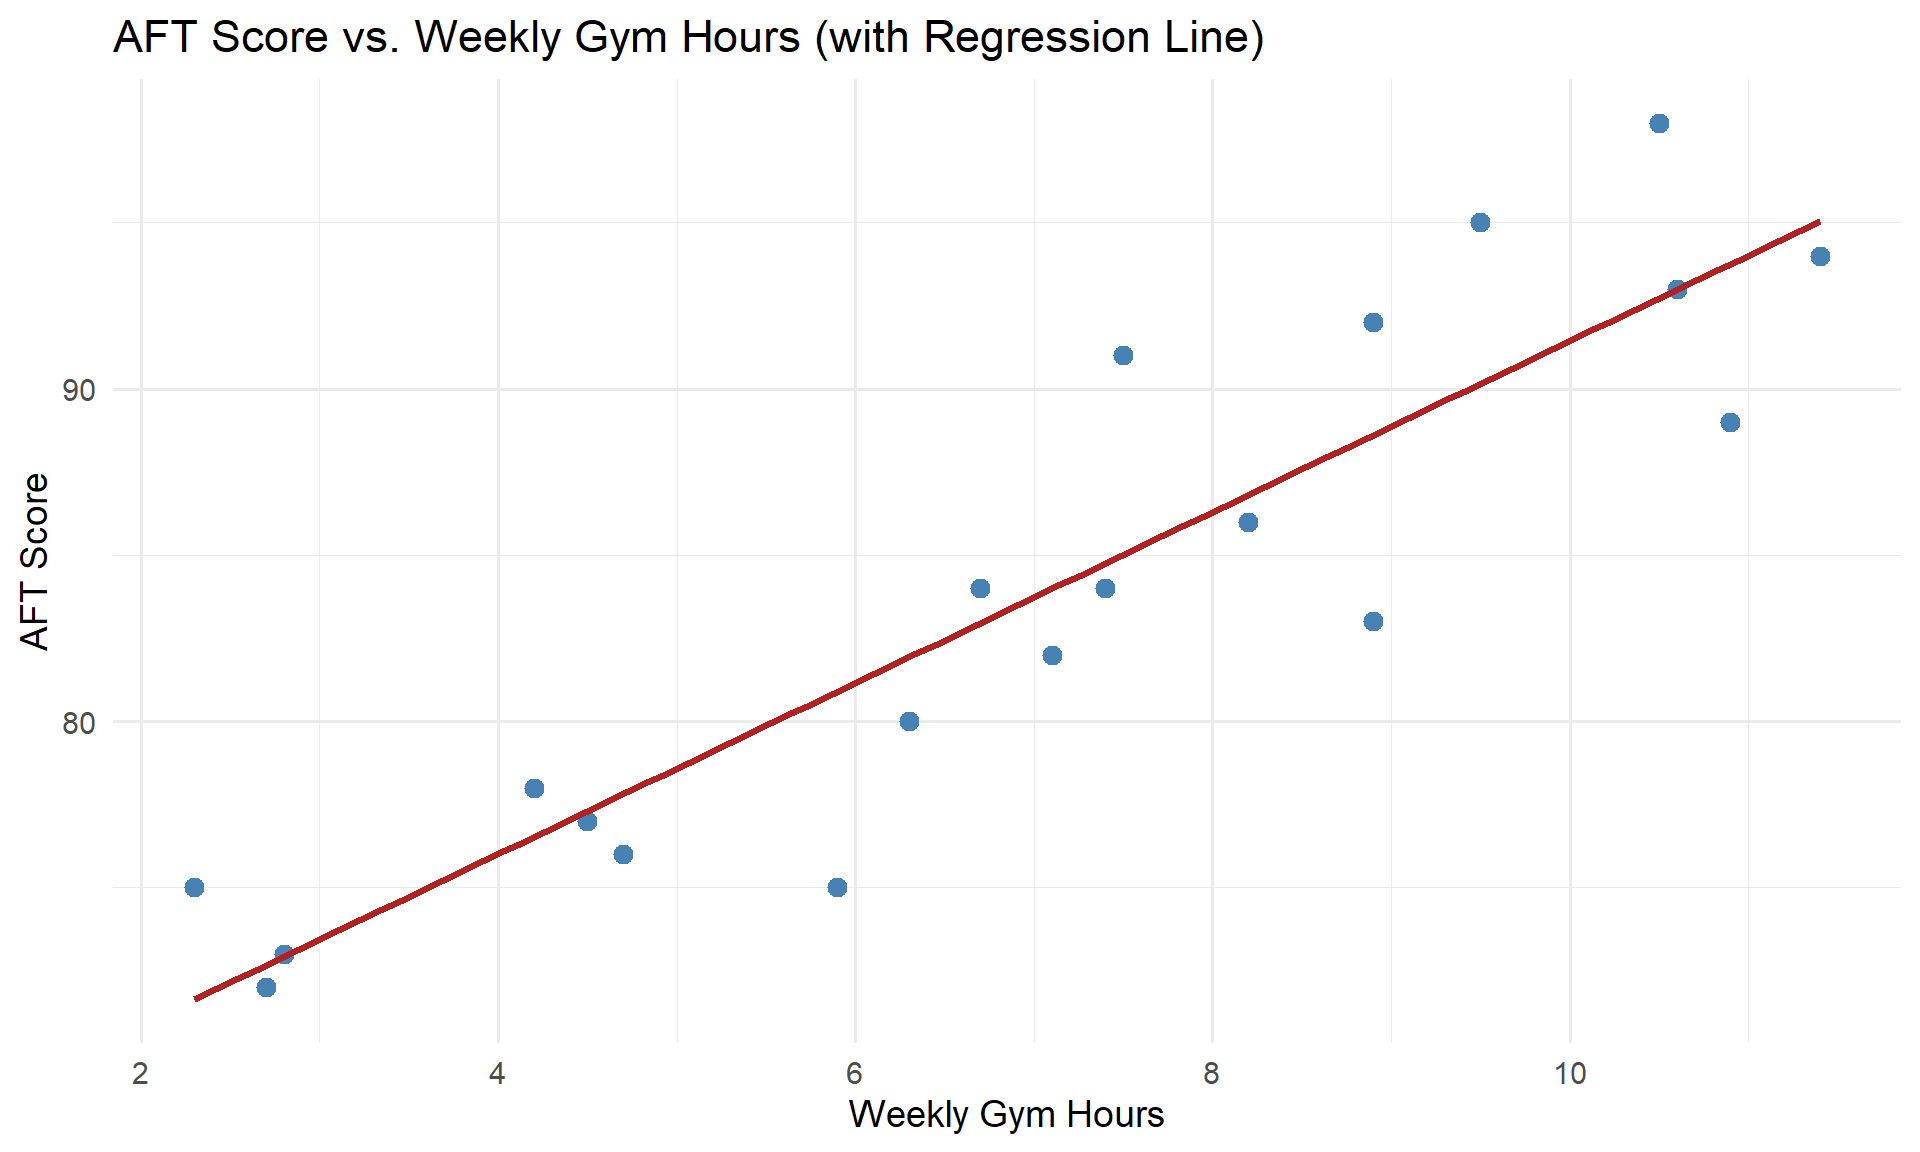
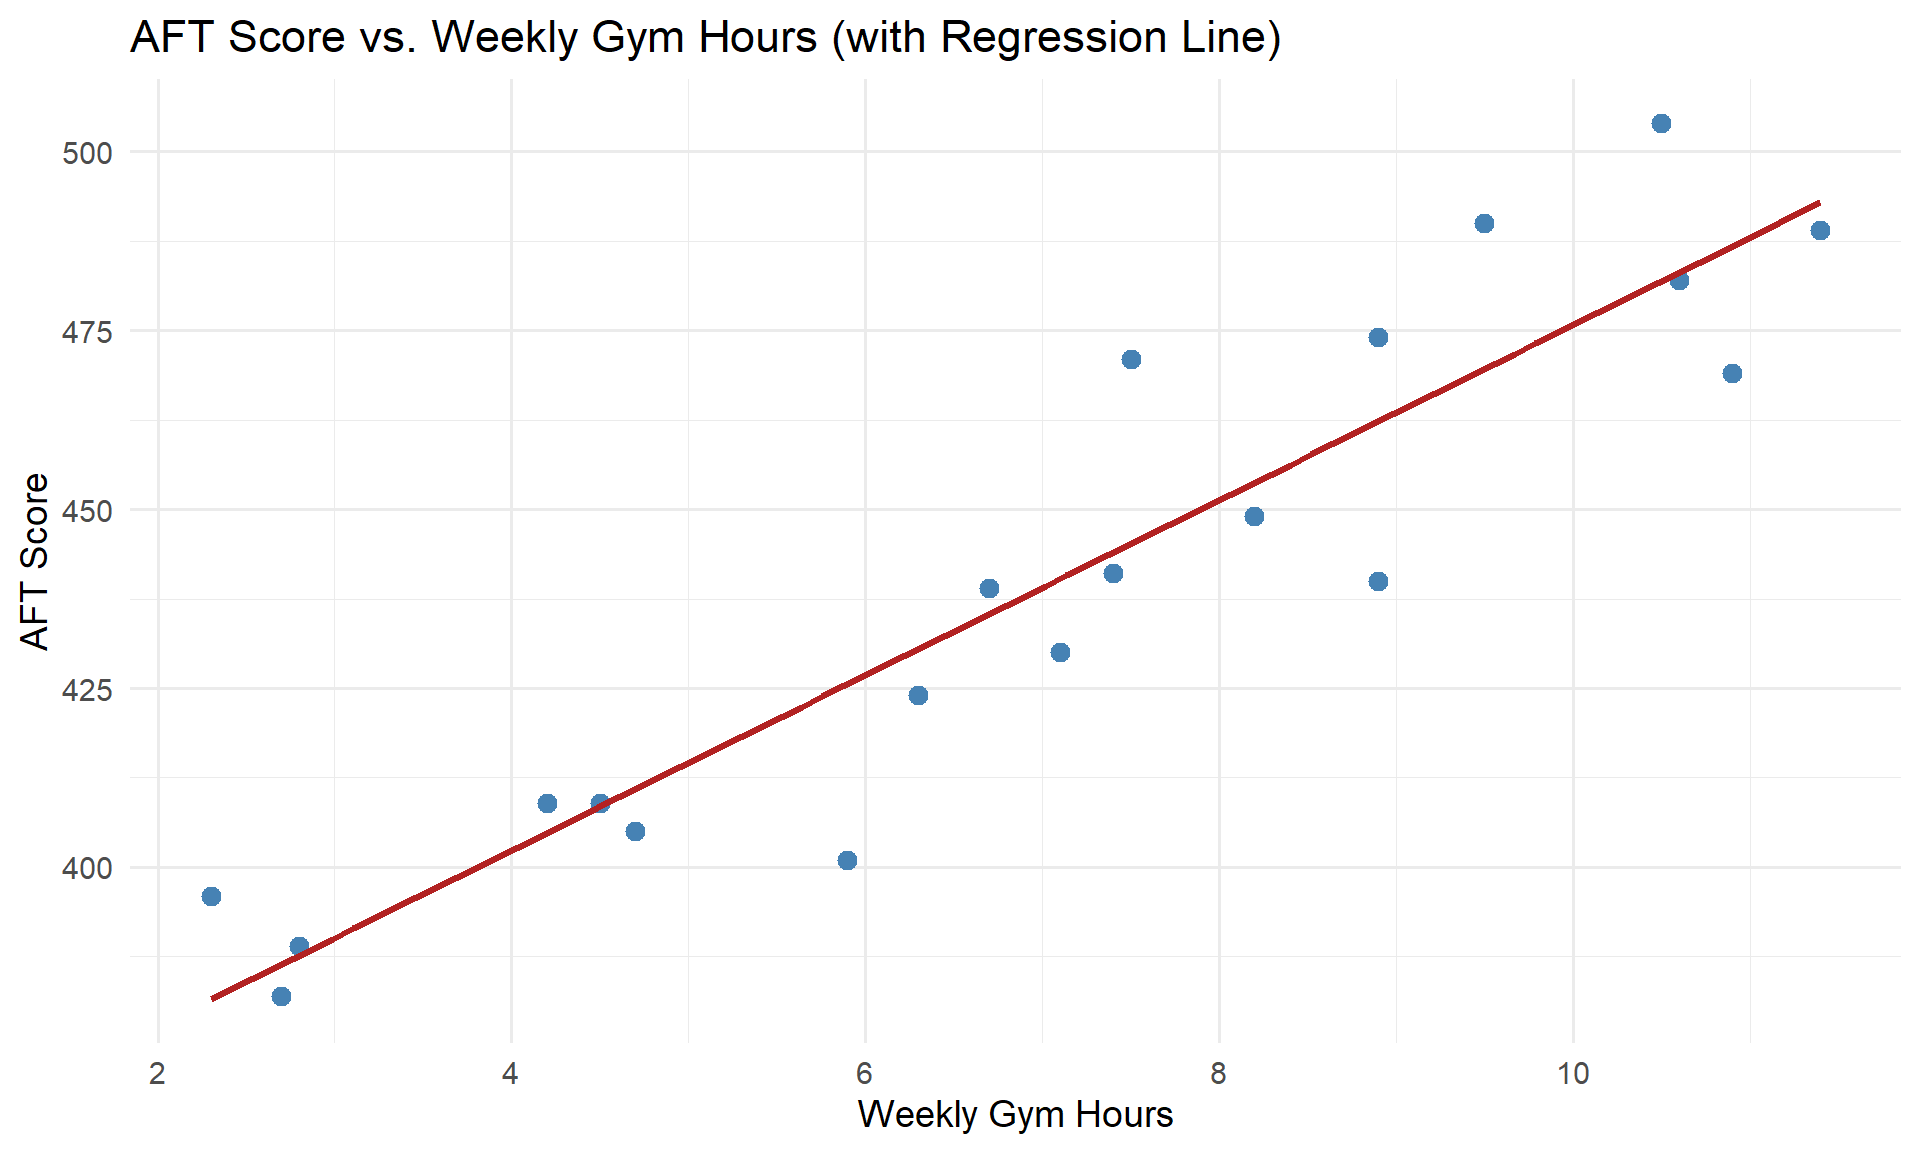
Sync westpoint folder from courses repo

diff --git a/public/westpoint/MA206x-AY26-2/lesson-28.html b/public/westpoint/MA206x-AY26-2/lesson-28.html
@@ -723,19 +723,19 @@ Call:
 lm(formula = aft_score ~ gym_hours, data = soldiers)
 
 Residuals:
-   Min     1Q Median     3Q    Max 
--5.894 -1.837 -0.481  1.948  5.993 
+    Min      1Q  Median      3Q     Max 
+-24.584  -6.049  -2.001   6.088  25.846 
 
 Coefficients:
             Estimate Std. Error t value Pr(&gt;|t|)    
-(Intercept)  65.7263     2.1115  31.128  &lt; 2e-16 ***
-gym_hours     2.5707     0.2786   9.226 3.04e-08 ***
+(Intercept)  353.418      8.644   40.88  &lt; 2e-16 ***
+gym_hours     12.231      1.141   10.72 3.02e-09 ***
 ---
 Signif. codes:  0 '***' 0.001 '**' 0.01 '*' 0.05 '.' 0.1 ' ' 1
 
-Residual standard error: 3.463 on 18 degrees of freedom
-Multiple R-squared:  0.8255,    Adjusted R-squared:  0.8158 
-F-statistic: 85.12 on 1 and 18 DF,  p-value: 3.039e-08</code></pre>
+Residual standard error: 14.18 on 18 degrees of freedom
+Multiple R-squared:  0.8646,    Adjusted R-squared:  0.8571 
+F-statistic:   115 on 1 and 18 DF,  p-value: 3.02e-09</code></pre>
 </div>
 </div>
 <hr>
@@ -743,7 +743,7 @@ F-statistic: 85.12 on 1 and 18 DF,  p-value: 3.039e-08</code></pre>
 <section id="interpreting-the-output" class="level2">
 <h2 class="anchored" data-anchor-id="interpreting-the-output">Interpreting the Output</h2>
 <p>The fitted equation is:</p>
-<p><span class="math display">\[\widehat{\text{AFT Score}} = 65.73 + 2.57 \cdot \text{Gym Hours}\]</span></p>
+<p><span class="math display">\[\widehat{\text{AFT Score}} = 353.42 + 12.23 \cdot \text{Gym Hours}\]</span></p>
 <div class="callout callout-style-default callout-important callout-titled" title="Interpreting Slope and Intercept">
 <div class="callout-header d-flex align-content-center">
 <div class="callout-icon-container">
@@ -754,8 +754,8 @@ F-statistic: 85.12 on 1 and 18 DF,  p-value: 3.039e-08</code></pre>
 </div>
 </div>
 <div class="callout-body-container callout-body">
-<p><strong>Slope</strong> (<span class="math inline">\(b_1 = 2.57\)</span>): For each additional hour per week spent in the gym, a Soldier’s predicted AFT score increases by 2.57 points, on average.</p>
-<p><strong>Intercept</strong> (<span class="math inline">\(b_0 = 65.73\)</span>): A Soldier who spends zero hours per week in the gym has a predicted AFT score of 65.73 points.</p>
+<p><strong>Slope</strong> (<span class="math inline">\(b_1 = 12.23\)</span>): For each additional hour per week spent in the gym, a Soldier’s predicted AFT score increases by 12.23 points, on average.</p>
+<p><strong>Intercept</strong> (<span class="math inline">\(b_0 = 353.42\)</span>): A Soldier who spends zero hours per week in the gym has a predicted AFT score of 353.42 points.</p>
 </div>
 </div>
 <p>But do <span class="math inline">\(b_0\)</span> and <span class="math inline">\(b_1\)</span> have statistical significance? Notice there’s a p-value at the end of each row. Where there’s a p-value, there’s a hypothesis test. Let’s see what these tests are telling us.</p>
@@ -788,7 +788,7 @@ F-statistic: 85.12 on 1 and 18 DF,  p-value: 3.039e-08</code></pre>
 </div>
 <div class="callout-body-container callout-body">
 <ul>
-<li>The slope interpretation must include <strong>units</strong> and <strong>context</strong> — “the slope is 2.57” is not enough</li>
+<li>The slope interpretation must include <strong>units</strong> and <strong>context</strong> — “the slope is 12.23” is not enough</li>
 <li>If <span class="math inline">\(x = 0\)</span> is outside the range of the data, the intercept may not have a meaningful interpretation — say so!</li>
 </ul>
 </div>
@@ -813,13 +813,13 @@ F-statistic: 85.12 on 1 and 18 DF,  p-value: 3.039e-08</code></pre>
 <p>Once we have the equation, we can predict <span class="math inline">\(y\)</span> for a given <span class="math inline">\(x\)</span>:</p>
 <p><strong>Example:</strong> Predict the AFT score for a Soldier who spends 8 hours per week in the gym.</p>
 <p>Plug <span class="math inline">\(x = 8\)</span> into our equation:</p>
-<p><span class="math display">\[\widehat{\text{AFT Score}} = 65.73 + 2.57(8) = 65.73 + 20.6 = 86.3\]</span></p>
+<p><span class="math display">\[\widehat{\text{AFT Score}} = 353.42 + 12.23(8) = 353.42 + 97.8 = 451.3\]</span></p>
 <p>We can also do this in R:</p>
 <div class="cell">
 <div class="code-copy-outer-scaffold"><div class="sourceCode cell-code" id="cb3"><pre class="sourceCode r code-with-copy"><code class="sourceCode r"><span id="cb3-1"><a href="#cb3-1" aria-hidden="true" tabindex="-1"></a><span class="fu">predict</span>(model, <span class="at">newdata =</span> <span class="fu">data.frame</span>(<span class="at">gym_hours =</span> <span class="dv">8</span>))</span></code></pre></div><button title="Copy to Clipboard" class="code-copy-button"><i class="bi"></i></button></div>
 <div class="cell-output cell-output-stdout">
-<pre><code>      1 
-86.2922 </code></pre>
+<pre><code>       1 
+451.2699 </code></pre>
 </div>
 </div>
 <div class="callout callout-style-default callout-warning callout-titled" title="Interpolation vs. Extrapolation">
